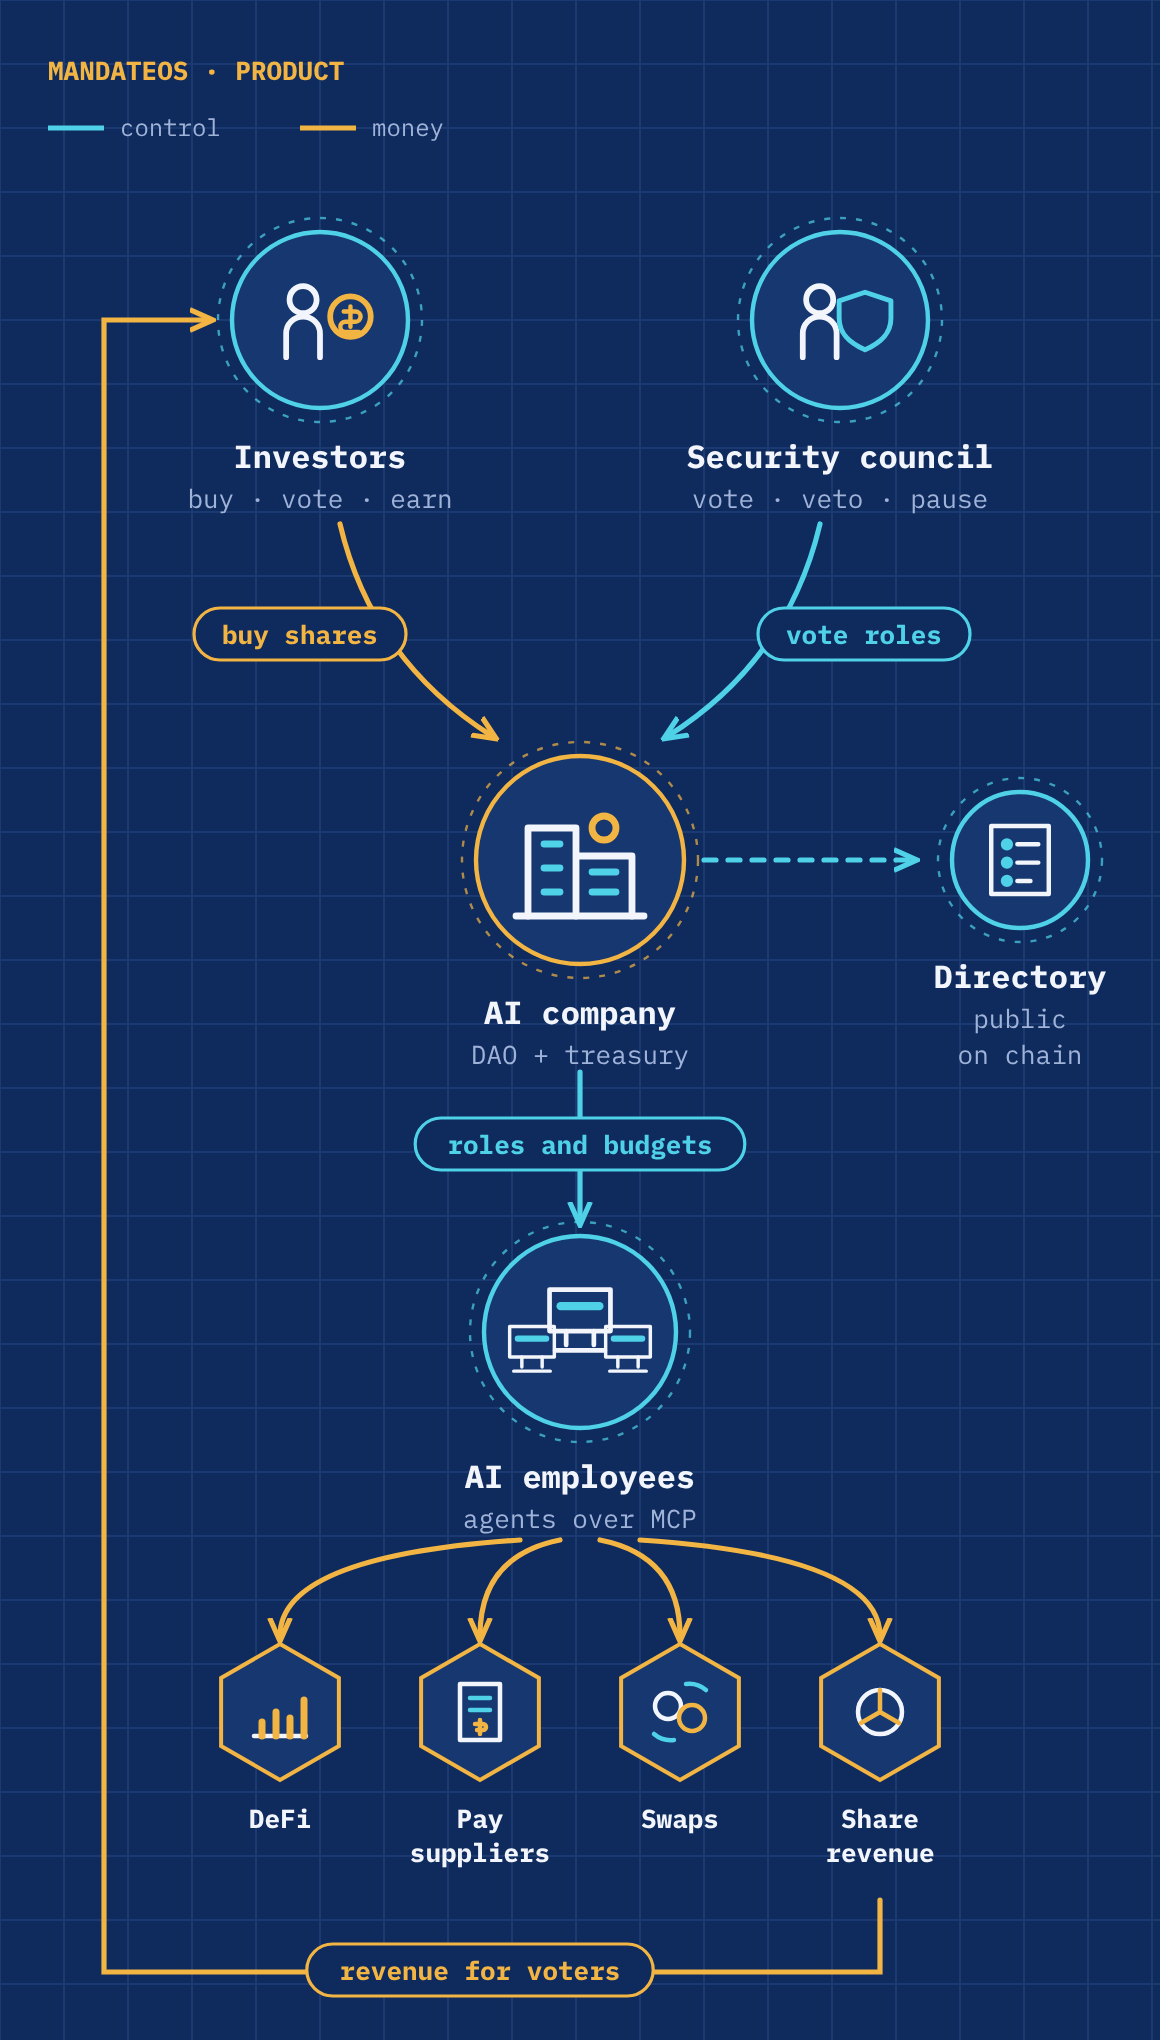
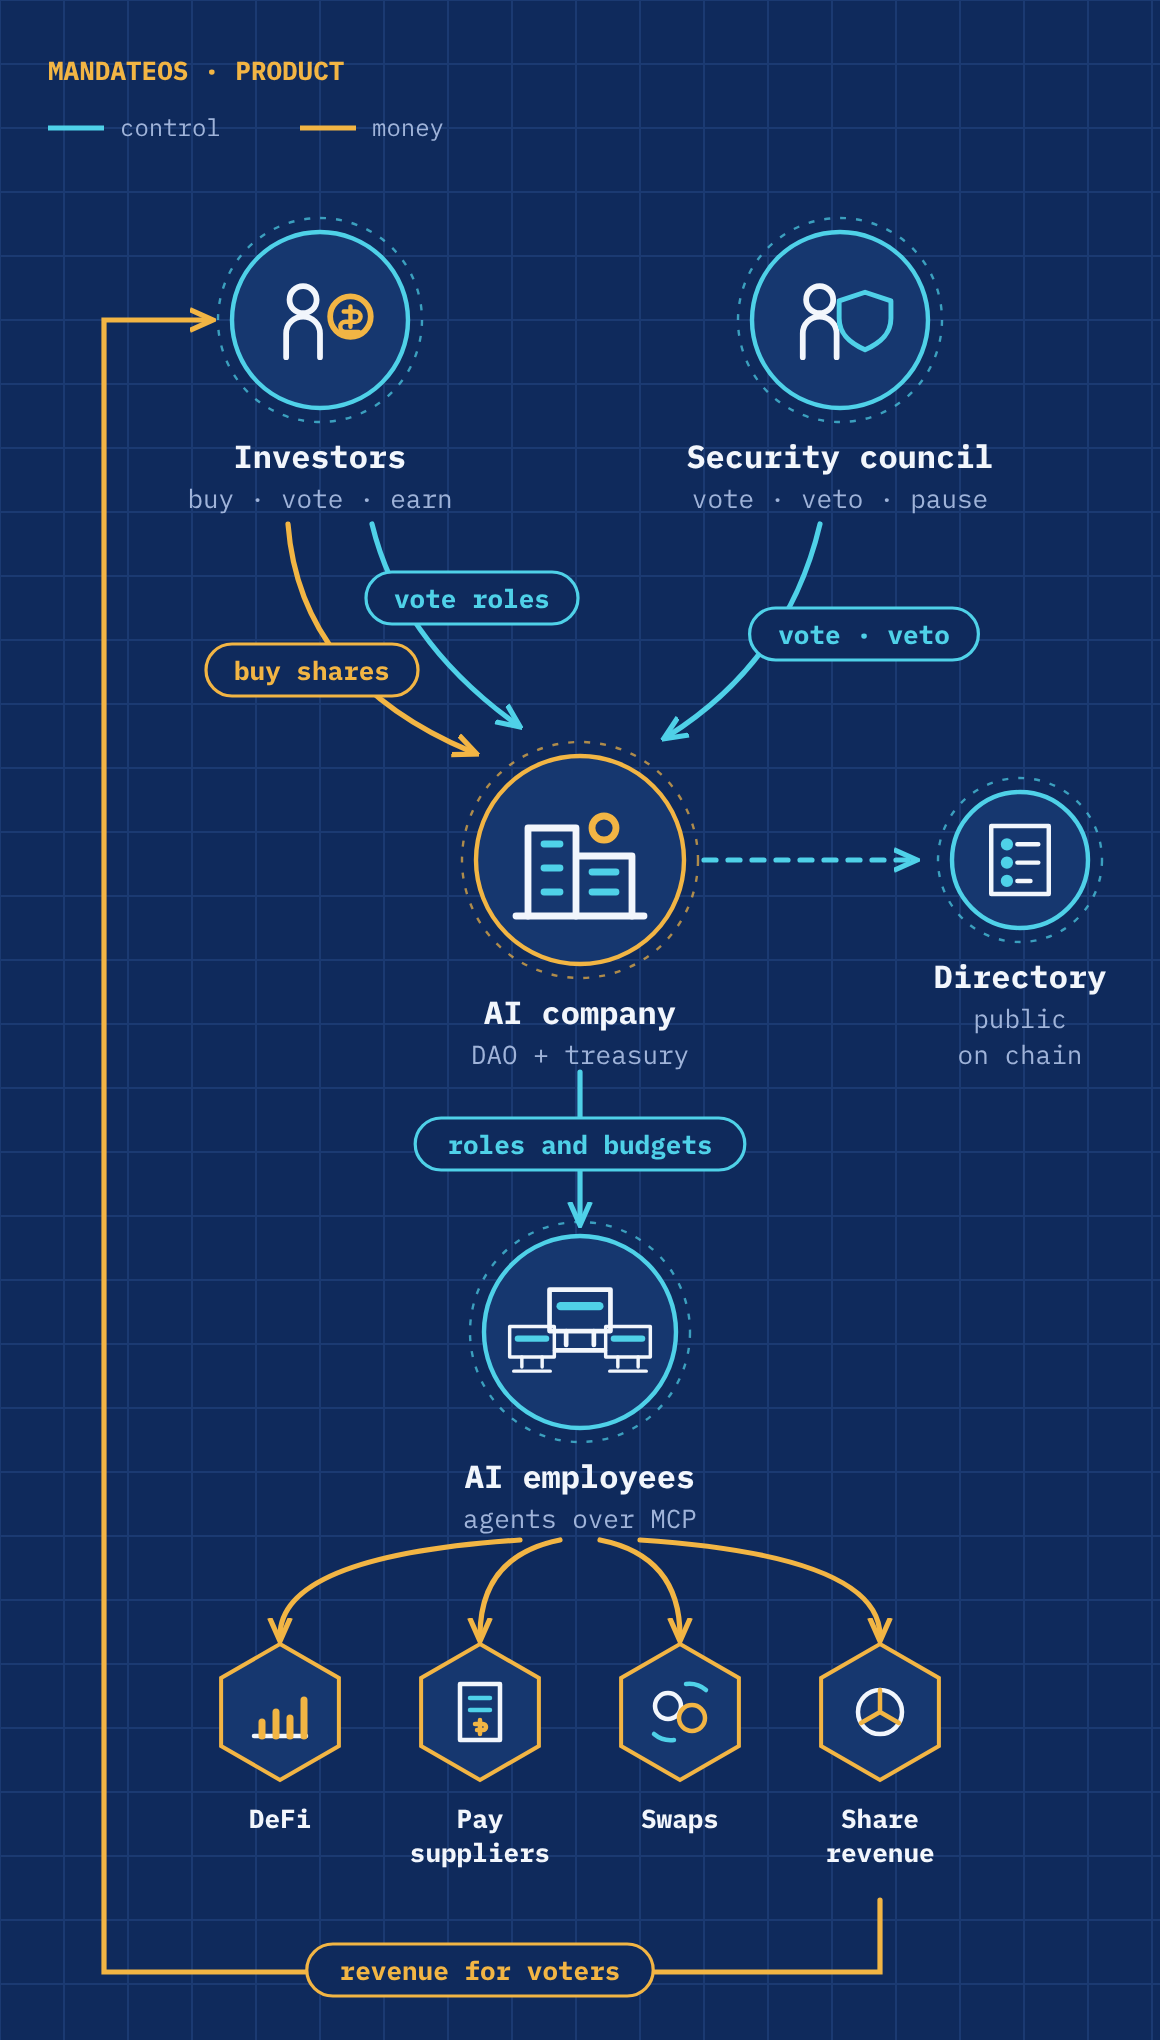
docs: product diagram shows who votes roles (investors and council) and the council veto
Claude-Session: https://claude.ai/code/session_01XpqpwNuc2JFdL6FhnKUUha

Changed region(s): [[0.1552, 0.2471, 0.4966, 0.3706], [0.7448, 0.3088, 0.8379, 0.3397], [0.6517, 0.3088, 0.7138, 0.3397]]

diff --git a/docs/diagrams/blueprint.py b/docs/diagrams/blueprint.py
@@ -146,10 +146,12 @@ def product():
     legend(64, 580)
     node(160, 160, 44, 'investors', 'Investors', 'buy · vote · earn')
     node(420, 160, 44, 'founders', 'Security council', 'vote · veto · pause')
-    arrow('M170 262 Q186 330 246 368', color=GOLD)
+    arrow('M144 262 Q150 340 236 376', color=GOLD)
+    arrow('M186 262 Q200 320 258 362')
     arrow('M410 262 Q394 330 334 368')
-    chip(150, 318, 'buy shares', GOLD)
-    chip(432, 318, 'vote roles')
+    chip(156, 336, 'buy shares', GOLD)
+    chip(236, 300, 'vote roles')
+    chip(432, 318, 'vote · veto')
     node(cx, 430, 52, 'company', 'AI company', 'DAO + treasury', ring=GOLD)
     arrow(f'M{cx+62} 430 H456', dash='6 6')
     node(510, 430, 34, 'directory', 'Directory', 'public|on chain')
